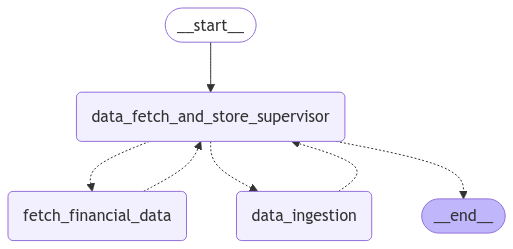
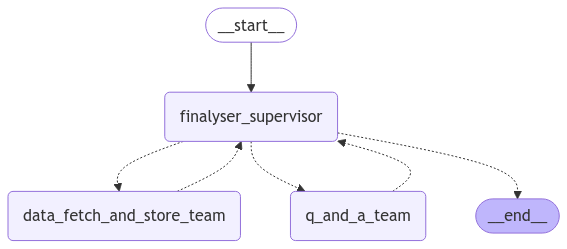
New features
Dockerized the app.

Add some features for predictor tools later. Enough for this phase.

diff --git a/app/agents/graphs/GraphBuilder.py b/app/agents/graphs/GraphBuilder.py
@@ -3,19 +3,15 @@ from langchain_core.messages import HumanMessage
 from langchain_google_genai import ChatGoogleGenerativeAI
 from langgraph.graph import StateGraph, MessagesState, START, END
 from langgraph.types import Command
-from langchain_core.messages import HumanMessage, trim_messages
 from app.agents.teams.DataGeneratorTeam import document_ingestion_node, fetch_financial_data_node
 from pathlib import Path
 import asyncio
 import PIL.Image
 from app.agents.teams.RAGTeam import document_retreival_node, yfinance_data_node, web_search_node
-from app.agents.teams.WebScraperTeam import search_node, web_scraper_node
-from app.agents.tools.DataGeneratorTools import fetch_financial_details
 from app.agents.utils import load_yaml, make_supervisor_node
 from config import GOOGLE_API_KEY
 from IPython.display import Image, display
 import os
-from langgraph.prebuilt import tools_condition, ToolNode
 from langgraph.graph.message import add_messages
 from langchain_core.messages import AnyMessage, BaseMessage, HumanMessage, SystemMessage
 
@@ -88,7 +84,7 @@ finalyser_node = make_supervisor_node(
 )
 
 
-def call_data_fetch_and_store_team(state: State) -> Command[Literal["supervisor"]]:
+def call_data_fetch_and_store_team(state: State) -> Command[Literal["finalyser_supervisor"]]:
     response = data_fetch_and_store_graph.invoke({"messages": state["messages"][-1]})
     return Command(
         update={
@@ -98,11 +94,11 @@ def call_data_fetch_and_store_team(state: State) -> Command[Literal["supervisor"
                 )
             ]
         },
-        goto="supervisor",
+        goto="finalyser_supervisor",
     )
 
 
-def call_q_and_a_team(state: State) -> Command[Literal["supervisor"]]:
+def call_q_and_a_team(state: State) -> Command[Literal["finalyser_supervisor"]]:
     response = q_and_a_graph.invoke({"messages": state["messages"][-1]})
     return Command(
         update={
@@ -112,7 +108,7 @@ def call_q_and_a_team(state: State) -> Command[Literal["supervisor"]]:
                 )
             ]
         },
-        goto="supervisor",
+        goto="finalyser_supervisor",
     )
 
 
@@ -132,11 +128,11 @@ def call_q_and_a_team(state: State) -> Command[Literal["supervisor"]]:
 
 # Define the graph.
 finalyser_builder = StateGraph(State)
-finalyser_builder.add_node("supervisor", finalyser_node)
-finalyser_builder.add_node("data_fetching_team", call_data_fetch_and_store_team)
-finalyser_builder.add_node("document_analysis_team", call_q_and_a_team)
+finalyser_builder.add_node("finalyser_supervisor", finalyser_node)
+finalyser_builder.add_node("data_fetch_and_store_team", call_data_fetch_and_store_team)
+finalyser_builder.add_node("q_and_a_team", call_q_and_a_team)
 # finalyser_builder.add_node("web_search_team", call_web_search_team)
-finalyser_builder.add_edge(START, "supervisor")
+finalyser_builder.add_edge(START, "finalyser_supervisor")
 
 
 finalyser_graph = finalyser_builder.compile()
@@ -151,7 +147,7 @@ finalyser_graph = finalyser_builder.compile()
 # #     pass
 
 # # # display(Image(finalyser_graph.get_graph().draw_mermaid_png()))
-# image_bytes = data_generator_graph.get_graph().draw_mermaid_png()
+# image_bytes = finalyser_graph.get_graph().draw_mermaid_png()
 
 
 # with open("output_image.png", "wb") as f:
@@ -163,17 +159,17 @@ finalyser_graph = finalyser_builder.compile()
 
 
 
-import pprint
+# import pprint
 
-inputs = {
-    "messages": [
-        ("user", "Fetch the data for Apple"),
-    ]
-}
-for output in finalyser_graph.stream(inputs):
-    for key, value in output.items():
-        pprint.pprint(f"Output from node '{key}':")
-        pprint.pprint("---")
-        pprint.pprint(value, indent=2, width=80, depth=None)
-    pprint.pprint("\n---\n")
+# inputs = {
+#     "messages": [
+#         ("user", "Fetch the data for Apple"),
+#     ]
+# }
+# for output in finalyser_graph.stream(inputs):
+#     for key, value in output.items():
+#         pprint.pprint(f"Output from node '{key}':")
+#         pprint.pprint("---")
+#         pprint.pprint(value, indent=2, width=80, depth=None)
+#     pprint.pprint("\n---\n")
 

diff --git a/app/api/api.py b/app/api/api.py
@@ -1,0 +1,20 @@
+from fastapi import FastAPI
+from pydantic import BaseModel
+from app.agents.graphs.GraphBuilder import finalyser_graph
+
+app = FastAPI()
+
+
+class QueryRequest(BaseModel):
+    query: str
+
+
+@app.post("/query/")
+async def query_graph(request: QueryRequest):
+    inputs = {"messages": [("user", request.query)]}
+    
+    results = []
+    for output in finalyser_graph.stream(inputs):
+        results.append(output)
+    
+    return {"response": results}
